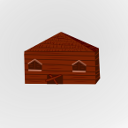
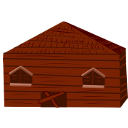
Change around buildings + obstacle system

diff --git a/map.js b/map.js
@@ -1,8 +1,9 @@
-function Map(mapWidth, mapHeight){
+function Map(mapWidth, mapHeight, defaultTile){
 	// Size of the map in tiles
 	this.mapSize = new Coord(mapWidth, mapHeight);
 	// Likewise, in pixels
 	this.mapPixSize = this.mapSize.toPixels();
+	this.defaultTile = defaultTile;
 
 	// 2d Array of tiles representing the game map
 	this.map = null;
@@ -18,10 +19,11 @@ Map.prototype.genTerrain = function (){
  			if (Math.floor(Math.random() * gc.altTileSpawnOdds) === 0){
  				var tileImgIndex = Math.floor(Math.random() * 
  								  gc.tileImgs.length);
+ 				var tileImg = gc.tileImgs[tileImgIndex];
  			} else {
- 				var tileImgIndex = 0;
+ 				var tileImg = this.defaultTile;
  			}
- 			newMap[x][y] = new Tile(gc.tileImgs[tileImgIndex], false);
+ 			newMap[x][y] = new Tile(tileImg, false);
  		}
  	}
  	this.map = newMap;
@@ -30,13 +32,57 @@ Map.prototype.genTerrain = function (){
 Map.prototype.addObstacles = function (){
 	for (var i = 0; i < gc.obstacleCount; ++i){
 		// Generate random obstacle location
-		obstacleLoc = new Coord(Math.floor(Math.random() * this.mapSize.x),
+		var obstacleLoc = new Coord(Math.floor(Math.random() * this.mapSize.x),
 								Math.floor(Math.random() * this.mapSize.y));
 		// Generate random obstacle image
-		obstacleImgIndex = Math.floor(Math.random() * gc.obstacleImgs.length);
-		this.map[obstacleLoc.x][obstacleLoc.y] = new Tile 
-								(gc.obstacleImgs[obstacleImgIndex], true);
+		var obstacleImgIndex = Math.floor(Math.random() * gc.obstacleImgs.length);
+		// Create obstacle if not overlapping anything else
+		this.addObstacle(obstacleLoc, gc.obstacleImgs[obstacleImgIndex]);
 	}
+};
+
+Map.prototype.addBuildings = function (){
+	for (var i = 0; i < gc.buildingCount; ++i){
+		// Generate random obstacle location
+		var buildingLoc = new Coord(Math.floor(Math.random() * this.mapSize.x),
+								Math.floor(Math.random() * this.mapSize.y));
+		// Generate random obstacle image
+		var buildingImgIndex = Math.floor(Math.random() * gc.buildingImgs.length);
+		this.addObstacle(buildingLoc, gc.buildingImgs[buildingImgIndex]);
+	}
+};
+
+Map.prototype.isOverlapping = function(obstacleLoc){
+	if (true){
+		this.getTile(obstacleLoc).pic = null;
+	}
+};
+
+Map.prototype.addObstacle = function (obstacleLoc, obstacleImg){
+	this.map[obstacleLoc.x][obstacleLoc.y].obstaclePic = obstacleImg;
+	
+	// Obstacles take up four tiles, all with no image
+	var obstructedTiles = new Array();
+	obstructedTiles.push(new Coord(obstacleLoc.x, obstacleLoc.y))
+	obstructedTiles.push(new Coord(obstacleLoc.x + 1, obstacleLoc.y));
+	obstructedTiles.push(new Coord(obstacleLoc.x, obstacleLoc.y + 1));
+	obstructedTiles.push(new Coord(obstacleLoc.x + 1, obstacleLoc.y + 1));
+
+	for (var i = 0; i < obstructedTiles.length; ++i){
+		// Make sure this also works when obstacle is at map edge
+		obstructedTiles[i].wrapAroundLimits(new Coord(0,0), 
+					new Coord(this.mapSize.x, this.mapSize.y));
+		// Make tiles obstructing, and null
+		this.map[obstructedTiles[i].x][obstructedTiles[i].y].isObstructed = true;
+	}
+};
+
+Map.prototype.setTile = function (loc, tile){
+	this.map[loc.x][loc.y] = tile;
+};
+
+Map.prototype.getTile = function (loc){
+	return this.map[loc.x][loc.y];
 };
 
 // This function initializes the entire game map in a random fashion. In the
@@ -45,6 +91,7 @@ Map.prototype.addObstacles = function (){
 Map.prototype.genGameMap = function() {
 	this.genTerrain();
 	this.addObstacles();
+	this.addBuildings();
 };
 
 Map.prototype.getTile = function(loc){

diff --git a/frame.js b/frame.js
@@ -15,9 +15,9 @@ Frame.prototype.updateFrame = function (playerX, playerY){
 	this.pixOffset.set(-(playerX % gc.tileSize), -(playerY % gc.tileSize));
 };
 
-Frame.prototype.drawFrame = function (ctx){
-	for (var x = 0; x < gc.canvasWidth; x++) {
-		for (var y = 0; y < gc.canvasHeight; y++) {
+Frame.prototype.drawTerrain = function(ctx){
+	for (var x = -1; x < gc.canvasWidth; x++) {
+		for (var y = -1; y < gc.canvasHeight; y++) {
 			var loc = new Coord(x + this.frameStart.x, y + this.frameStart.y);
 
 			// If map edge reached, loop the map
@@ -26,10 +26,28 @@ Frame.prototype.drawFrame = function (ctx){
 
 			// Draw the tile at the given coordinates on screen
 			var currTile = gs.mainMap.getTile(loc);
-			if (x === 0 && currTile.isObstructed){
-				console.log(currTile);
-			}
 			currTile.drawTile((new Coord(x,y).toPixels()), this.pixOffset, ctx);
 		}
+	}	
+};
+
+Frame.prototype.drawObstacles = function(ctx){
+	for (var x = -1; x < gc.canvasWidth; x++) {
+		for (var y = -1; y < gc.canvasHeight; y++) {
+			var loc = new Coord(x + this.frameStart.x, y + this.frameStart.y);
+
+			// If map edge reached, loop the map
+			loc.wrapAroundLimits(new Coord(0,0), new Coord(gs.mainMap.mapSize.x,
+														   gs.mainMap.mapSize.y));
+
+			// Draw the tile at the given coordinates on screen
+			var currTile = gs.mainMap.getTile(loc);
+			currTile.drawObstacle((new Coord(x,y).toPixels()), this.pixOffset, ctx);
+		}
 	}
+}
+
+Frame.prototype.drawFrame = function (ctx){
+	this.drawTerrain(ctx);
+	this.drawObstacles(ctx);
 };

diff --git a/player.js b/player.js
@@ -4,10 +4,12 @@
 
 function Player(x, y){
 	// X and Y here are actual pixel coordinates, not tiles
-	this.loc = new Coord(x,y);
+	this.loc = new Coord(0,0);
 
 	// Length/width of player's body, in pixels
 	this.body_size = 32;
+	// Degree angle player is oriented
+	this.angle = 0;
 
 	// True if that directional key is currently being held down
 	this.isPressingUp = false;
@@ -24,7 +26,7 @@ function Player(x, y){
 Player.prototype.canMoveTo = function (nextPos){
 	var nextPosTile = gs.mainMap.getTile(nextPos.toTiles());
 	return (!nextPosTile.isObstructed);
-}
+};
 
 // Moves the player based on keypresses
 Player.prototype.updatePos = function (mapPixWidth, mapPixHeight){
@@ -43,15 +45,15 @@ Player.prototype.updatePos = function (mapPixWidth, mapPixHeight){
 		nextPosition.x += this.moveSpeed;
 	}
 
+	// Reset position if walking off map
+	nextPosition.wrapAroundLimits(new Coord(0,0), new Coord(mapPixWidth, mapPixHeight));
 	// Only move if the next position is not blocked
 	if (this.canMoveTo(nextPosition)){
-		this.loc = nextPosition;
-		// Reset position if walking off map
-		this.loc.wrapAroundLimits(new Coord(0,0), new Coord(mapPixWidth, mapPixHeight));
+		this.loc = nextPosition;	
 	}
-}
+};
 
 Player.prototype.drawPlayer = function (ctx){
 	ctx.drawImage(gc.playerImg, (gc.canvasPixWidth - this.body_size) / 2, 
 		(gc.canvasPixHeight - this.body_size) / 2);
-}
+};

diff --git a/gamestate.js b/gamestate.js
@@ -4,7 +4,7 @@
  */
 
 function GameState(canvasWidth, canvasHeight){
-	this.mainMap = new Map(500, 500);
+	this.mainMap = new Map(501, 501, gc.tileImgs[0]);
 	// The player character -- see player.js for more information
 	this.player = new Player(this.mainMap.mapPixSize.x / 2, this.mainMap.mapPixSize.y / 2);
 	this.frame = new Frame();
@@ -48,7 +48,8 @@ function GameConstants(tileSize, canvasPixWidth, canvasPixHeight){
 	// Odds of a non-snow tile forming (1 in 'x')
 	this.altTileSpawnOdds = 20;
 	// Number of obstacle generation passes to be run for the main map
-	this.obstacleCount = 2000;
+	this.obstacleCount = 5000;
+	this.buildingCount = 2000;
 }
 
 // Preloads all necessary images for the game
@@ -56,8 +57,7 @@ GameConstants.prototype.loadAllImages = function (callbackFn) {
 	// These should be updated as image file names change
 	var playerImgName = 'player.png';
 	var tileImgNames = ['terrain0.png', 'terrain1.png', 'terrain2.png'];
-	var obstacleImgNames = ['obstacle0.png', 'obstacle1.png', 'obstacle2.png',
-							'obstacle3.png'];
+	var obstacleImgNames = ['obstacle0.png', 'obstacle1.png', 'obstacle2.png'];
 	var buildingImgNames = ['building0.png', 'building1.png', 'building2.png'];
 
 	// Keep count of loaded images to make sure each is loaded before being

diff --git a/tile.js b/tile.js
@@ -6,14 +6,21 @@
 function Tile(pic, isObstructed){
 	// Index of the tile image in GameConstant's tileImgs array
 	this.pic = pic;
-
 	this.isObstructed = isObstructed;
+	this.obstaclePic = null;
 }
 
 Tile.prototype.drawTile = function(pixLoc, offset, ctx) {
-	ctx.drawImage(this.pic, pixLoc.x + offset.x, pixLoc.y + offset.y);
+	if (this.pic !== null){
+		ctx.drawImage(this.pic, pixLoc.x + offset.x, pixLoc.y + offset.y);
+	}
 };
 
+Tile.prototype.drawObstacle = function (pixLoc, offset, ctx) {
+	if (this.obstaclePic !== null){
+		ctx.drawImage(this.obstaclePic, pixLoc.x + offset.x, pixLoc.y + offset.y);
+	}
+};
 
 
 

diff --git a/main.js b/main.js
@@ -6,7 +6,7 @@
 // Main GameState object (see gamestate.js)
 var gs = null;
 // Arguments are the tile size and dimensions of the canvas
-var gc = new GameConstants(128, 1024, 512);
+var gc = new GameConstants(64, 1024, 512);
 
 function initialize(){
 	addKeyboardEvents();
